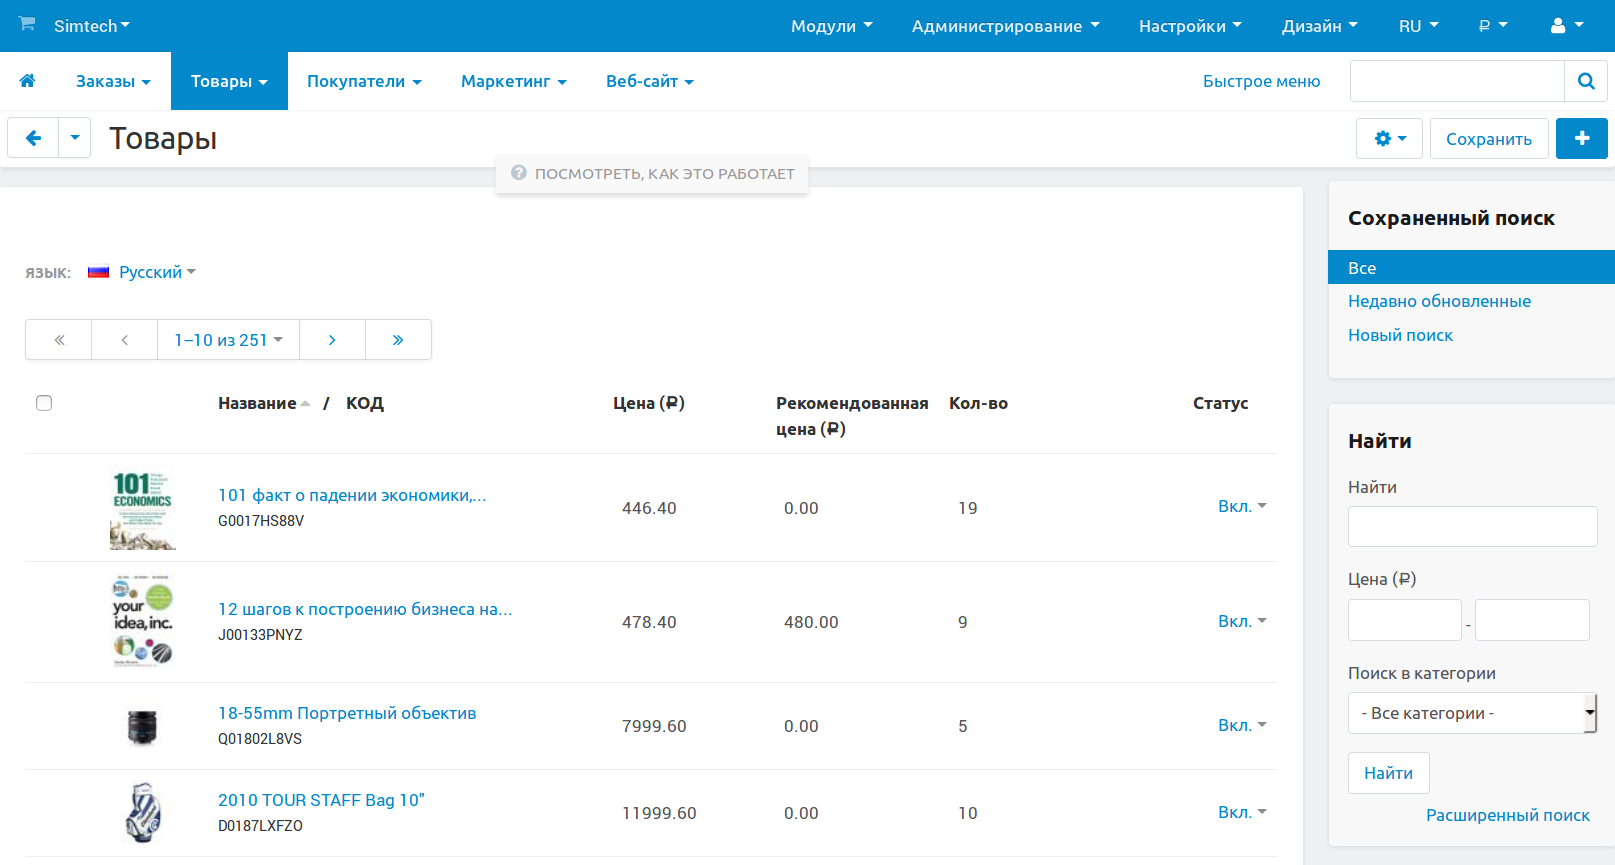
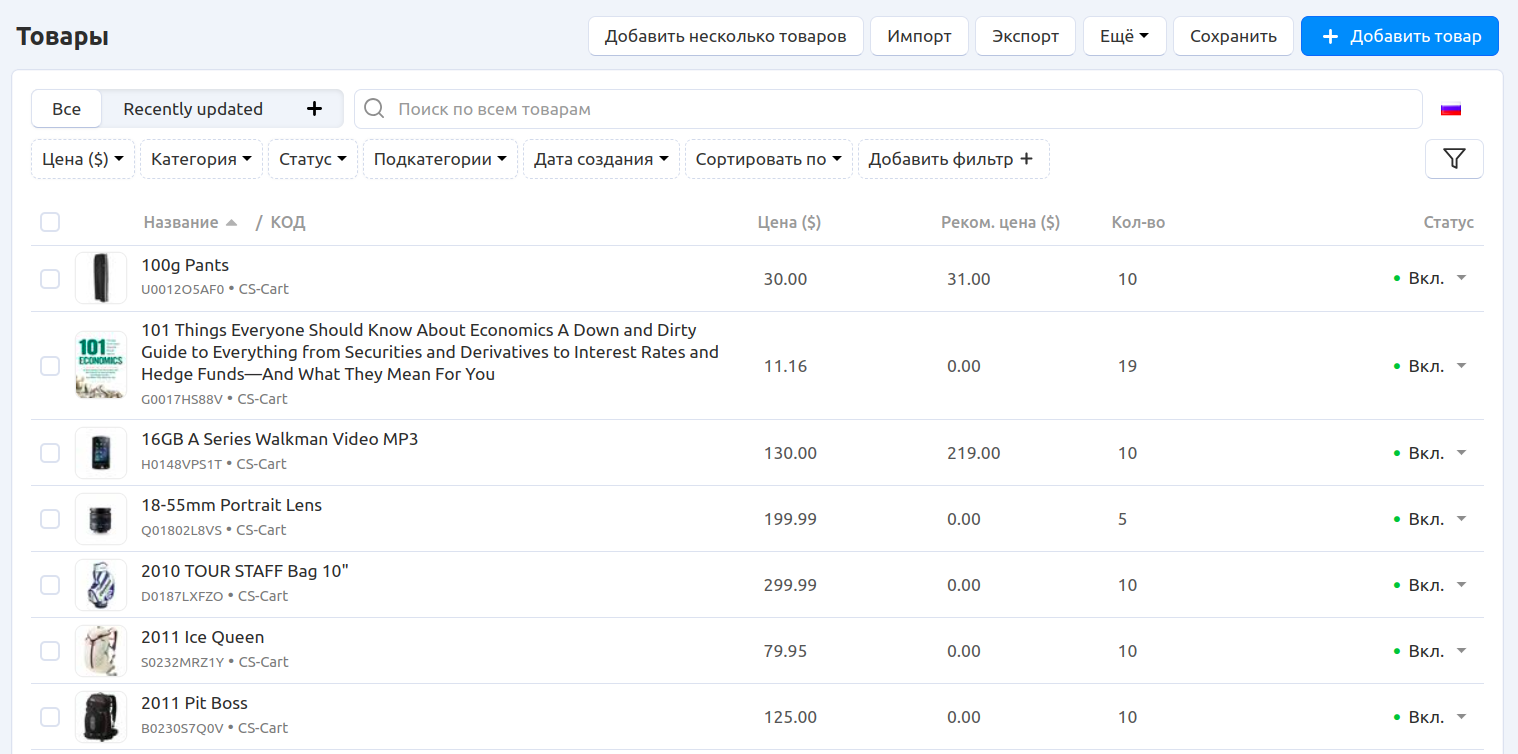
[~] Docs: User guide: Products: Screenshots updated.

diff --git a/ru/user_guide/manage_products/products/index.rst b/ru/user_guide/manage_products/products/index.rst
@@ -4,7 +4,7 @@
 
 Управляйте каталогом товаров на странице **Товары → Товары**. Здесь находится список всех товаров вашего интернет-магазина. Чтобы отфильтровать товары по каким-либо критериям, воспользуйтесь панелью поиска. 
 
-.. fancybox:: img/products_1.png
+.. fancybox:: img/products.png
     :alt: Список товаров в панели администрирования CS-Cart.
 
 На списке отображается самая важная информация о каждом товаре:
